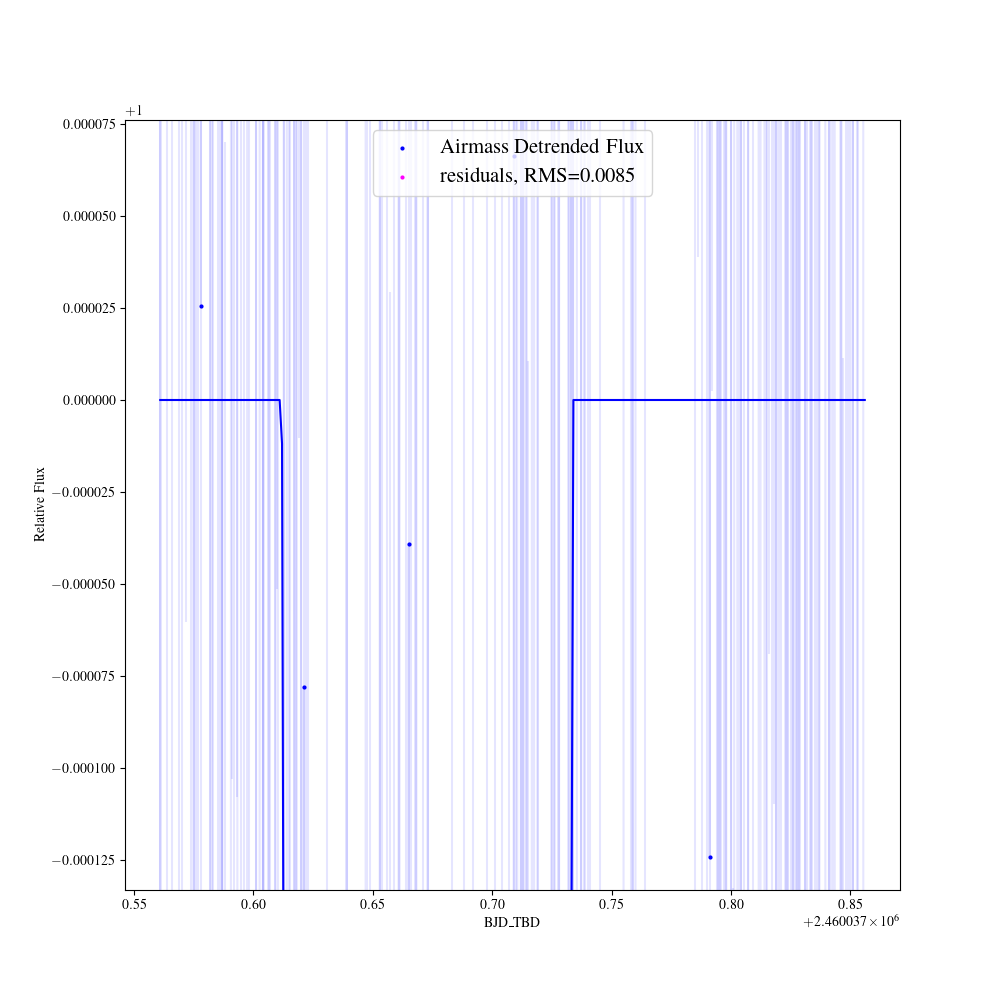
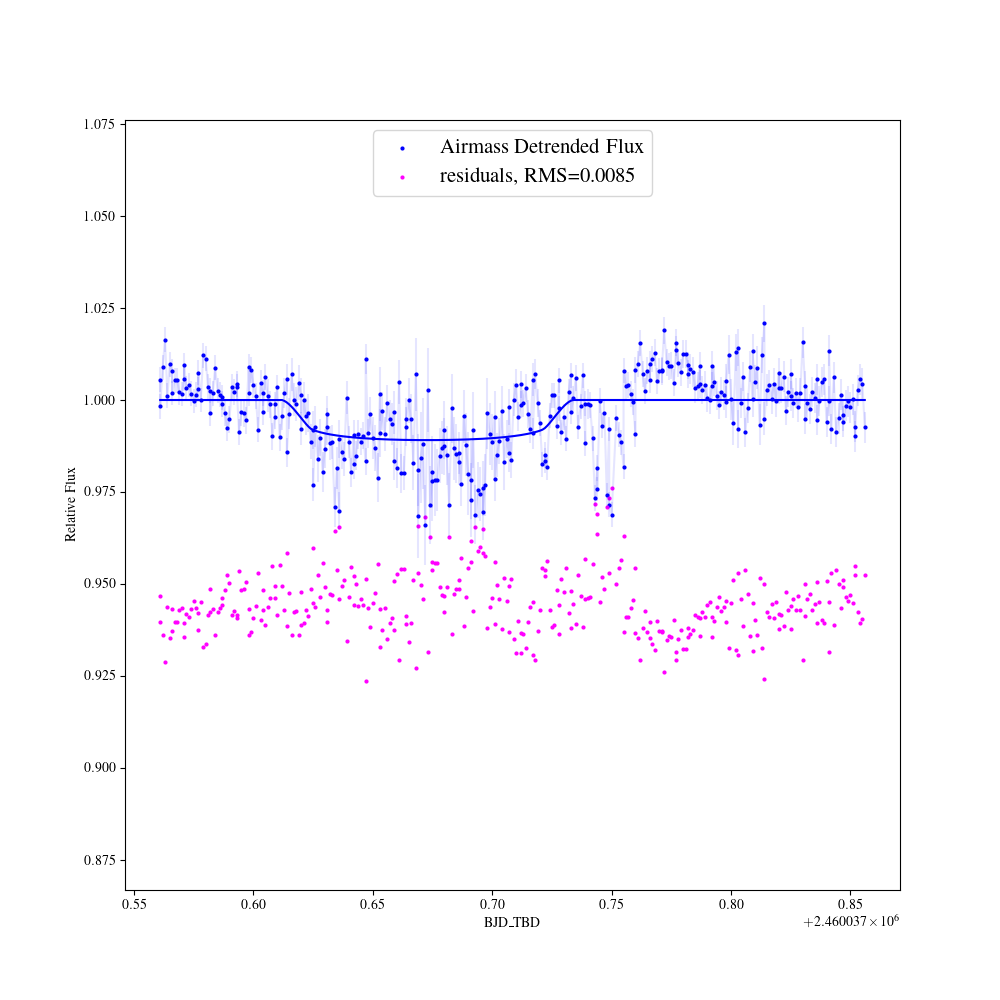
added exoplanet name function

diff --git a/tt_mcmc_functions.py b/tt_mcmc_functions.py
@@ -5,6 +5,44 @@ from pathlib import Path
 import os
 import emcee
 
+# function to find exoplanet name from filename 
+def find_exoplanetname(filename):
+    
+    """ Extracts exoplanet name in the correct format to reference the exoplanet archive table. Only currently 
+    working for exoplanets in the following catalogs: "TOI", "XO", "WASP","TRES","Quatar","OGLE","HAT","K2","CoRoT","HD", "GJ"
+
+    Returns:
+        string: exoplanet archive formatted exoplanet name 
+    """
+    # returns part of string before a "b" character 
+    filename = filename.upper() # uppercases whole string 
+    filename = filename.replace("-", "") # gets rid of dashes 
+    planetname = filename.split("B", 1)[0] # splits on B character, takes first part 
+    
+    # finds first index of a number, returns that index 
+    for index, char in enumerate(planetname):
+        if char.isdigit():
+            numeric_index = index - 1 
+
+    # Split the string into parts based on the numeric part
+    words = planetname[:numeric_index]
+    numbers = planetname[numeric_index:]
+    print(words)
+    print(numbers)
+    
+    with_dash = ["TOI", "XO", "WASP","TRES","Quatar","OGLE","HAT","K2","CoRoT"]
+    no_dash = ["HD", "GJ"]
+    
+    if words in no_dash:
+        return f"{words} {numbers} b"
+    if words in with_dash:
+        return f"{words}-{numbers} b"
+    if words == "K":
+        numbers = planetname.split("-", 1)
+        return f"K2-{numbers} b"
+    if words == "HATP":
+        return f"HAT-P-{numbers} b"
+
 # lightcurve model with batman 
 def lc(pars, data):
     

diff --git a/lightcurve_fit.py b/lightcurve_fit.py
@@ -22,8 +22,13 @@ rc("text", usetex=True)
 run = False
 
 # these will be input for final project, but are set for now
-filename = "HATP22B-2023apr02.csv"
-exoplanet_name = "HAT-P-22 b"
+#filename = "HATP22B-2023apr02.csv"
+filename = "WASP-65-b-UT2023.2_measurements"
+
+exoplanet_name = find_exoplanetname(filename)
+
+print(exoplanet_name)
+sys.exit()
 
 # makes exoplanet name into possible directory name - remove spaces -> _
 updated_exoplanet_name = exoplanet_name.replace(" ", "_")
@@ -148,12 +153,18 @@ airmass_detrended_data = data['flux'] / (1 + mcmc_pars[9] * (data["time"] - np.m
 residuals = final_lc - data["flux"]  # calculates residuals
 RMS = np.sqrt(((residuals) ** 2).mean())
 print("RMS of residuals:", RMS)
+
+# calculates depth as difference between baseline and transit center 
+baseline = detrended_lc.max()
+center = detrended_lc.min()
+depth_absolute = (baseline - center)/baseline * 1000
+depth_abs_err = np.std(residuals) * 1000
+print(f"absolute depth: {depth_absolute} +/- {depth_abs_err}")
+print(f"Rp/R* depth: {mcmc_pars[10]} +/- {mcmc_stds[10]}")
     
 # plots final lightcurve w all the other stuff on the plot AiJ uses <3 
 depth = mcmc_pars[10] / 1000
 plt.figure(figsize=(10, 10))
-
-#plt.scatter(data["time"], data["flux"] + 0.045, color="orange", s=4, label="rel_flux_T1 (raw)")
 
 plt.scatter(data["time"], airmass_detrended_data, color="blue", s=4, label="Airmass Detrended Flux")
 plt.errorbar(data["time"], airmass_detrended_data, yerr=data["error"], color="blue", alpha=0.1)
